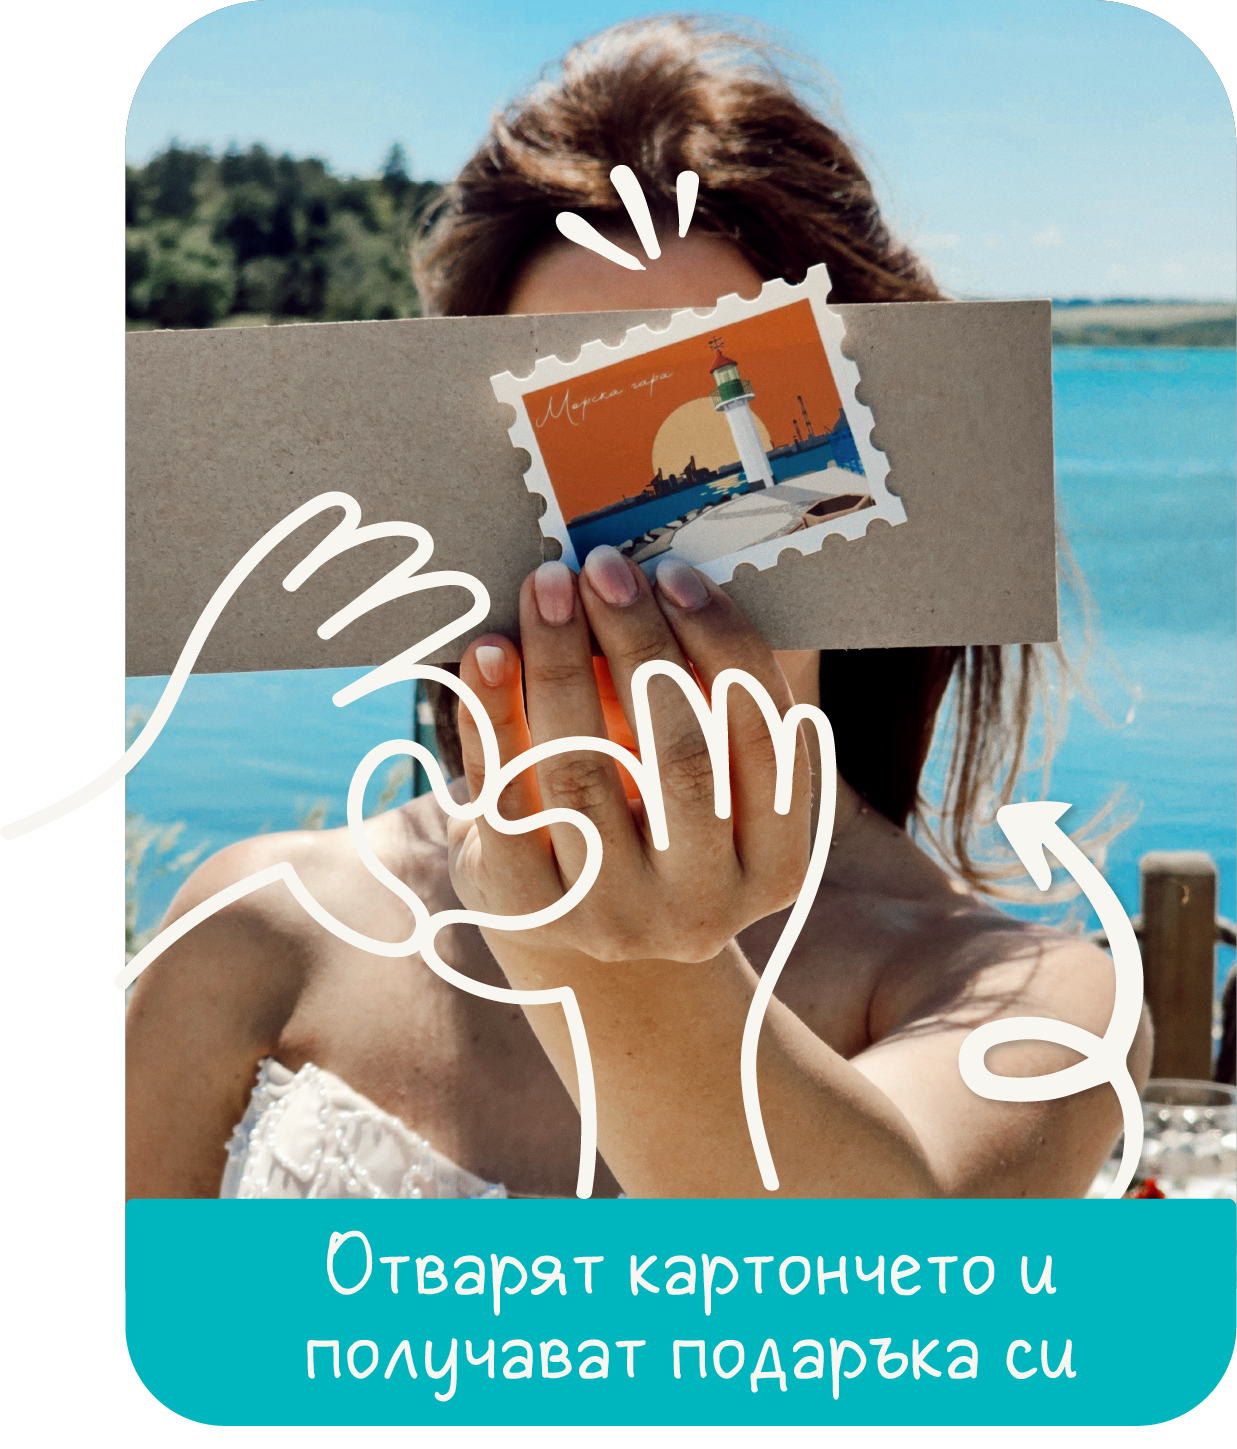
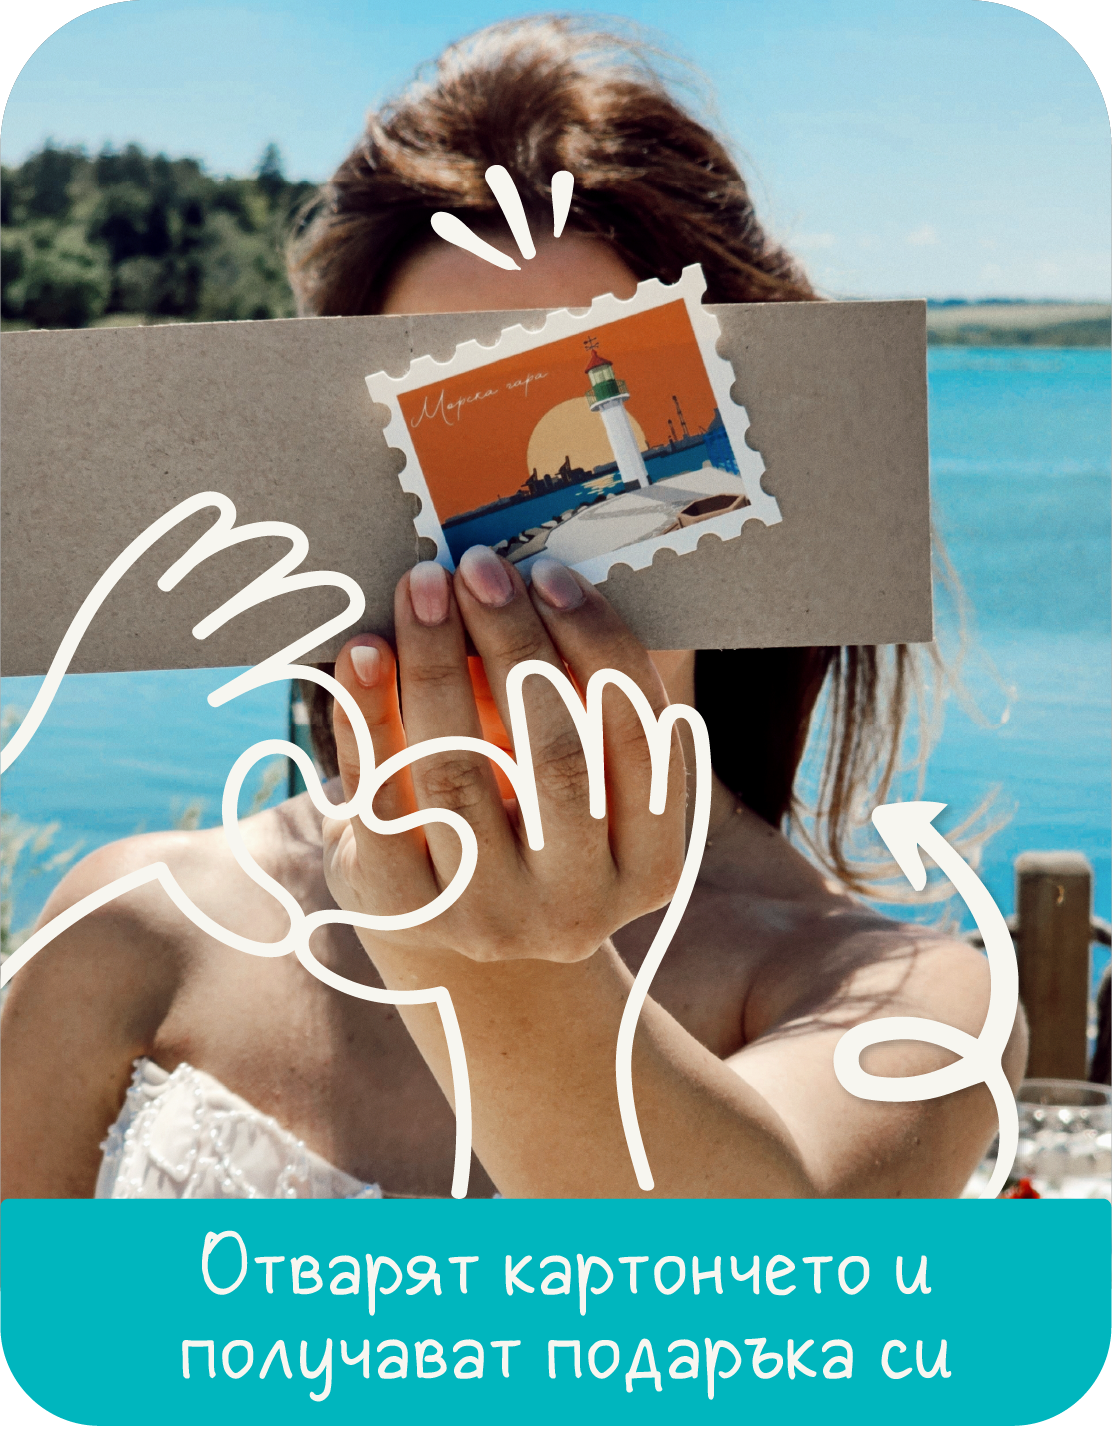
style: update FinalCTA component background positioning, typography, and font family

diff --git a/src/components/home/final-cta.tsx b/src/components/home/final-cta.tsx
@@ -27,13 +27,13 @@ export const FinalCTA = () => {
 
   return (
     <section className="relative w-full py-20 sm:py-32 flex items-center justify-center overflow-hidden bg-brand-dark px-4">
-      {/* Background Image */}
+      {/* Background Image: Right-aligned focus on mobile (object-[80%_center]), centered on desktop (md:object-center) */}
       <div className="absolute inset-0 z-0">
         <Image
           src="/media/Main Page/final-cta-bg.png"
           alt="Пощичка незабравим спомен"
           fill
-          className="object-cover object-center opacity-85"
+          className="object-cover object-[80%_center] md:object-center opacity-85"
           unoptimized
         />
         <div className="absolute inset-0 bg-black/20" />
@@ -46,7 +46,7 @@ export const FinalCTA = () => {
           whileInView={{ opacity: 1, y: 0 }}
           viewport={{ once: true }}
           transition={{ duration: 0.7 }}
-          className="font-display text-xl sm:text-3xl md:text-4xl lg:text-5xl font-bold uppercase tracking-wider leading-tight text-white sm:whitespace-nowrap"
+          className="font-salongbeach text-2xl sm:text-3xl md:text-4xl lg:text-5xl font-bold uppercase tracking-wider text-center leading-tight text-white"
         >
           {title}
         </motion.h2>
@@ -79,4 +79,3 @@ export const FinalCTA = () => {
     </section>
   );
 };
-
